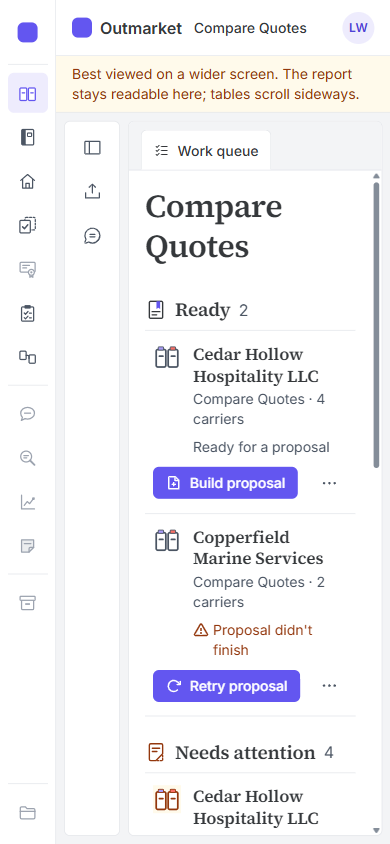
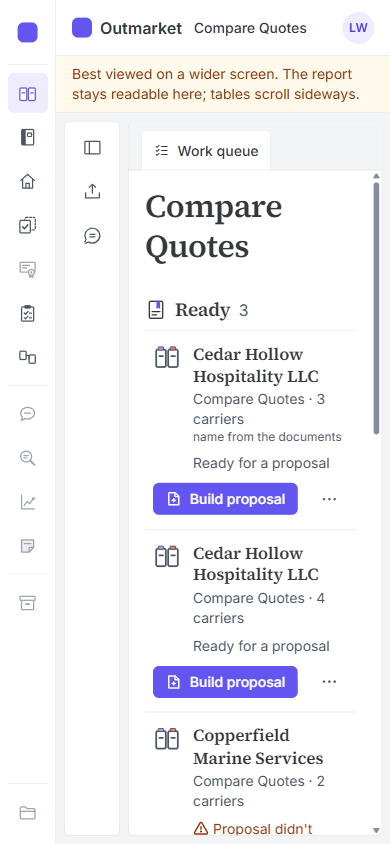
Rail glyphs Phase B: Silhouettes (A) is the rail; flag, B and C removed
Owner picked A. railMarks.tsx keeps only A's eight redrawn rail marks (the
other four reuse the shared Glyph); the ?rail= flag and B/C mark set are gone.
Rail only: Proposal row mark and left strip icons untouched (open questions).
DESIGN.md Voice records the rail rule; RAIL-BRIEF.md has the Phase B outcome;
final-a rail screenshots regenerated (active, hover, focus, disabled, 1024
overlay, 390).

diff --git a/frontend/src/voice/railMarks.tsx b/frontend/src/voice/railMarks.tsx
@@ -1,29 +1,18 @@
-// Rail glyph legibility, Phase A previews (frontend/RAIL-BRIEF.md). Dev server only: `?rail=a|b|c` before the hash
-// swaps the 13 rail glyphs for one direction; without the flag the rail renders the shipped `Glyph` set unchanged.
-// Same rules as marks.tsx: 24 grid, round joins, currentColor, paper fill, decorative (aria-hidden).
+// The rail's marks, "Silhouettes" (owner-picked direction A, frontend/RAIL-BRIEF.md; rules in DESIGN.md "Voice").
+// At 20px a 1.5px stroke is about one device pixel, so interior lines carry nothing: each rail item reads by its own
+// outline and mass. Same material as marks.tsx (24 grid, 1.5 strokes, round joins, paper fill, currentColor,
+// decorative). Items whose shipped outline was already unique use the shared `Glyph`; the rest are drawn here.
 import type { ReactNode } from "react";
 import { Glyph, type GlyphName } from "./marks";
-
-export type RailVariant = "a" | "b" | "c";
-
-/** The preview flag, read once per page load (hash routing keeps the query string). */
-export function railVariant(): RailVariant | null {
-  if (!import.meta.env.DEV || typeof window === "undefined") return null;
-  const v = new URLSearchParams(window.location.search).get("rail");
-  return v === "a" || v === "b" || v === "c" ? v : null;
-}
 
 const PAPER = "var(--color-surface)";
 const st = (w = 1.5) => ({ fill: "none", stroke: "currentColor", strokeWidth: w, strokeLinecap: "round", strokeLinejoin: "round" }) as const;
 
-function Sheet({ x, y, w, h, dashed, sw = 1.5 }: { x: number; y: number; w: number; h: number; dashed?: boolean; sw?: number }) {
-  return <rect x={x} y={y} width={w} height={h} rx="1.5" {...st(sw)} fill={PAPER} strokeDasharray={dashed ? "2.2 2" : undefined} />;
+function Sheet({ x, y, w, h }: { x: number; y: number; w: number; h: number }) {
+  return <rect x={x} y={y} width={w} height={h} rx="1.5" {...st()} fill={PAPER} />;
 }
 
-/* A, "Silhouettes": every item keeps the paper material but gets its own outline and mass, so it reads by shape
-   before detail. Kept from the shipped set where the outline was already unique (compare, house, policy check,
-   integrations, analytics); redrawn where the outline was a plain sheet. */
-function drawA(name: GlyphName): ReactNode {
+function draw(name: GlyphName): ReactNode {
   const S = st();
   switch (name) {
     case "proposal": // bound cover: heavy filled spine, a label window, no ruled lines
@@ -101,114 +90,16 @@ function drawA(name: GlyphName): ReactNode {
         </>
       );
     default:
-      return null; // compare, personal, policy-check, integrations: the shipped drawing (see RailGlyph)
+      return null; // compare, personal, policy-check, integrations: the shared drawing already has its own outline
   }
 }
 
-/* B and C share one mark per item, drawn on the 24 grid. B lays it on a faint shared sheet; C draws it alone. */
-function mark(name: GlyphName, w: number): ReactNode {
-  const S = st(w);
-  switch (name) {
-    case "compare": // two quotes, one line read across both
-      return (
-        <>
-          <rect x="3.5" y="4.5" width="7" height="15" rx="1.25" {...S} />
-          <rect x="13.5" y="4.5" width="7" height="15" rx="1.25" {...S} />
-          <path {...S} d="M2.5 12h19" />
-        </>
-      );
-    case "proposal":
-      return (
-        <>
-          <rect x="5" y="3" width="14" height="18" rx="1.5" {...S} />
-          <path d="M5 4.5A1.5 1.5 0 0 1 6.5 3h3v18h-3A1.5 1.5 0 0 1 5 19.5z" fill="currentColor" />
-        </>
-      );
-    case "personal":
-      return <path {...S} d="M3.5 11 12 3.75 20.5 11M6 9v11.25h12V9M10 20.25v-5.5h4v5.5" />;
-    case "policy-check": // the renewal ticked against the dashed expiring box
-      return (
-        <>
-          <rect x="3.5" y="6.5" width="12" height="13" rx="1.5" {...S} strokeDasharray="2.4 2.2" />
-          <path {...S} d="M7.5 12.5l3.25 3.25L20.5 5" />
-        </>
-      );
-    case "certificate": // the seal with its ribbons
-      return (
-        <>
-          <path {...S} d="M8.5 14.5v6.5l3.5-2 3.5 2v-6.5" />
-          <circle cx="12" cy="9.5" r="6" {...S} fill={PAPER} />
-          <circle cx="12" cy="9.5" r="2.25" fill="currentColor" />
-        </>
-      );
-    case "tasks": // a checklist, first row ticked
-      return (
-        <>
-          <rect x="3.5" y="4.5" width="5.5" height="5.5" rx="1" {...S} />
-          <rect x="3.5" y="14" width="5.5" height="5.5" rx="1" {...S} />
-          <path {...S} d="M4.75 7.25l1.25 1.25 2.25-2.5M12 7.25h8.5M12 16.75h8.5" />
-        </>
-      );
-    case "integrations": // two systems linked
-      return (
-        <>
-          <rect x="2.5" y="8.75" width="11" height="6.5" rx="3.25" {...S} />
-          <rect x="10.5" y="8.75" width="11" height="6.5" rx="3.25" {...S} />
-        </>
-      );
-    case "assistant":
-      return <path {...S} d="M3.5 4.5h17v11.5h-9l-5 4v-4h-3z" />;
-    case "search":
-      return (
-        <>
-          <circle cx="10" cy="10" r="6.5" {...S} />
-          <path {...S} d="m15 15 5.5 5.5" />
-        </>
-      );
-    case "analytics": // figures as bars
-      return <path {...S} d="M5.75 20v-7M12 20V7.5M18.25 20V4" />;
-    case "insights": // a sticky note, one corner folded (three plain lines read as a menu button)
-      return (
-        <>
-          <path {...S} fill="currentColor" fillOpacity="0.2" d="M3.75 3.75h16.5v10.5l-6 6H3.75z" />
-          <path {...S} d="M20.25 14.25h-4.5a1.5 1.5 0 0 0-1.5 1.5v4.5" />
-        </>
-      );
-    case "vault": // locked
-      return (
-        <>
-          <path {...S} d="M8 10.5V7.5a4 4 0 0 1 8 0v3" />
-          <rect x="5" y="10.5" width="14" height="10" rx="1.5" {...S} />
-          <path {...S} d="M12 14.5v2.5" />
-        </>
-      );
-    case "documents": // clipped together
-      return <path {...S} transform="rotate(40 12 12)" d="M16 6.5v9.5a4 4 0 0 1-8 0V5.75a2.75 2.75 0 0 1 5.5 0v9.75a1.5 1.5 0 0 1-3 0V7.5" />;
-    default:
-      return null;
-  }
-}
-
-const B_SCALE = 0.68;
-
-function draw(name: GlyphName, variant: RailVariant): ReactNode {
-  if (variant === "a") return drawA(name);
-  if (variant === "c") return mark(name, 1.75);
-  // B: the shared sheet, quiet, with the item's mark at full weight in its middle.
-  return (
-    <>
-      <rect x="4.75" y="2.75" width="14.5" height="18.5" rx="1.5" fill={PAPER} stroke="currentColor" strokeWidth="1.25" strokeOpacity="0.4" />
-      <g transform={`translate(12 12.25) scale(${B_SCALE}) translate(-12 -12)`}>{mark(name, 1.75 / B_SCALE)}</g>
-    </>
-  );
-}
-
-/** A rail item's glyph: the shipped `Glyph` unless a preview direction is on. */
-export function RailGlyph({ name, variant }: { name: GlyphName; variant: RailVariant | null }) {
-  const body = variant ? draw(name, variant) : null;
+/** A rail item's mark (20px, monochrome; active and disabled colours come from `.rail__item`). */
+export function RailGlyph({ name }: { name: GlyphName }) {
+  const body = draw(name);
   if (!body) return <Glyph name={name} />;
   return (
-    <svg className={`vmark vmark--${name} vmark--rail-${variant}`} width={20} height={20} viewBox="0 0 24 24" aria-hidden focusable="false">
+    <svg className={`vmark vmark--${name} vmark--rail`} width={20} height={20} viewBox="0 0 24 24" aria-hidden focusable="false">
       {body}
     </svg>
   );

diff --git a/frontend/src/shell/Shell.tsx b/frontend/src/shell/Shell.tsx
@@ -1,5 +1,5 @@
 import type { GlyphName } from "../voice/marks";
-import { RailGlyph, railVariant } from "../voice/railMarks";
+import { RailGlyph } from "../voice/railMarks";
 import { APP_NAME } from "../config";
 import { Tip } from "../ui/Tip";
 
@@ -17,6 +17,7 @@ interface RailItem {
 // DG1: the full rail from the reference. Live: Workflows (slice 1), Proposals (slice 2, the wizard),
 // Policy check (slice 3, the new-check wizard), Integrations (slice 3b, a static mock), Personal lines (slice 3b T6,
 // runs tagged personal) and Tasks (slice 3b T7). `tip` is the tooltip and accessible name of a live item.
+// Marks: `voice/railMarks.tsx` (one outline per item, RAIL-BRIEF.md).
 const GROUPS: RailItem[][] = [
   [
     { label: "Workflows", glyph: "compare", href: "#/", section: "workflows" },
@@ -37,10 +38,8 @@ const GROUPS: RailItem[][] = [
 ];
 
 export function Rail({ section }: { section: Section }) {
-  // `?rail=a|b|c`: dev-only glyph previews (RAIL-BRIEF.md); null renders the shipped marks.
-  const variant = railVariant();
   return (
-    <nav className="rail" aria-label="Main" data-rail={variant ?? undefined}>
+    <nav className="rail" aria-label="Main">
       <a href="#/" className="rail__home" aria-label={`${APP_NAME} home`}>
         <span className="glyph" aria-hidden />
       </a>
@@ -56,7 +55,7 @@ export function Rail({ section }: { section: Section }) {
                     aria-current={item.section === section ? "page" : undefined}
                     aria-label={item.tip ? item.tip.replace(": ", ", ") : item.label}
                   >
-                    <RailGlyph name={item.glyph} variant={variant} />
+                    <RailGlyph name={item.glyph} />
                   </a>
                 </Tip>
               ) : (
@@ -68,7 +67,7 @@ export function Rail({ section }: { section: Section }) {
                     tabIndex={-1}
                     aria-label={`${item.label}, coming in a later slice`}
                   >
-                    <RailGlyph name={item.glyph} variant={variant} />
+                    <RailGlyph name={item.glyph} />
                   </span>
                 </Tip>
               )}
@@ -79,7 +78,7 @@ export function Rail({ section }: { section: Section }) {
       <div className="rail__bottom">
         <Tip text="Documents: coming in a later slice" side="right">
           <span className="rail__item is-disabled" role="button" aria-disabled="true" tabIndex={-1} aria-label="Documents, coming in a later slice">
-            <RailGlyph name="documents" variant={variant} />
+            <RailGlyph name="documents" />
           </span>
         </Tip>
       </div>

diff --git a/frontend/RAIL-BRIEF.md b/frontend/RAIL-BRIEF.md
@@ -5,13 +5,18 @@ size"). Goal: every rail item is identifiable at a glance at its real size (20px
 and in the 390 layout, inside the Paper trail voice and the reference product's rail structure. Phase A only: three directions
 behind a dev-only flag; the default rail is unchanged. The owner picks before anything becomes the default.
 
+> **Phase B (2026-11-03): the owner picked A, "Silhouettes".** It is now the rail's only set; the `?rail=` flag and
+> directions B and C were removed from the code. The Phase A sections below are kept as the record of the choice
+> (their B and C screenshots stay in `qa-screenshots/rail/`); "How to see a direction" no longer applies. Phase B
+> decisions, rounds and results are in "Phase B" at the end.
+
 Sources: `PRODUCT.md`, `DESIGN.md` (Voice, Motion, "Focus, disabled, rail"), `VOICE-BRIEF.md` (why C won, the
 sheet rules, Phase B), `src/voice/marks.tsx`, `src/shell/Shell.tsx`, `HANDOFF.md` 09:30 entry.
 
 Skills loaded before the first decision: gstack, ui-ux-pro-max, taste-core, taste-redesign, impeccable (context
 ran: PRODUCT.md and DESIGN.md found; scoped refinement, Operate mode), emil-design-eng, frontend-design.
 
-## How to see a direction
+## How to see a direction (Phase A only; removed in Phase B)
 
 Dev server only (`import.meta.env.DEV`): add `?rail=a`, `?rail=b` or `?rail=c` before the hash, for example
 `http://localhost:5210/?rail=a#/tasks`. Hash links keep the query string, so the choice holds while you click
@@ -153,7 +158,47 @@ icons (panel, upload, chat; visible beside the rail at 1024 and 390) join the vo
    overlay open beside the rail (shipped, A, B, C). Axe (wcag2a/aa, 21aa): 0 violations with each flag on `#/` and
    `#/tasks` at 1440 and 390 (12 checks). No open findings beyond the Phase B questions above.
 
-## Not verified
+## Not verified (Phase A)
 - The squint metric is a proxy (translation-sensitive cosine on a blurred raster); the owner's eye decides.
 - Windows ClearType and non-Chromium rendering of the 20px glyphs were not checked.
 - Dark theme is out of scope (PRODUCT.md).
+
+## Phase B: A as the rail (2026-11-03)
+
+Skills reloaded and applied per decision: gstack, ui-ux-pro-max, taste-core, taste-redesign, impeccable,
+emil-design-eng, frontend-design. The rule is recorded in `DESIGN.md` "Voice" (rail marks).
+
+### What changed
+- `src/voice/railMarks.tsx`: only A's drawings remain. `RailGlyph` draws the eight redrawn items and falls back to the
+  shared `Glyph` for the four whose shipped outline was already unique (Workflows, Personal lines, Policy check,
+  Integrations). The `?rail=` flag, `railVariant`, and B and C's mark set are gone.
+- `src/shell/Shell.tsx`: rail items name a glyph and render `RailGlyph`; no `data-rail`, no flag.
+- Scope held to the rail. Not changed (owner did not take these; still open): the Proposal workflow mark on queue rows,
+  wizard titles and start buttons (still the bound sheet with lines, so the rail's Proposals cover and the row mark
+  differ); the left panel strip's icons (panel, upload, chat).
+
+### Decisions and what each skill said
+
+| Decision | gstack | ui-ux-pro-max | taste-core | taste-redesign | impeccable | emil-design-eng | frontend-design |
+|---|---|---|---|---|---|---|---|
+| Remove the flag, B and C; A unscoped | Name the files and the impact | n/a | One icon family per project | Do not leave dead variants | Refinement now preserves A | n/a | n/a |
+| Keep A's Assistant and Insights as approved (tweaks measured, none kept) | n/a | Distinct at size, measured not guessed | Do not change what the owner approved without a reason | Small targeted changes only | Verify in bounded passes; stop polishing | Taste is checked at real size, not argued | Remove one accessory: a tweak that adds a new collision is worse |
+| Rail-only scope; Proposal row mark and left strip untouched | Plain words about what is open | Same mark for the same thing (flagged as open, not fixed) | Nothing changes silently | Keep changes reviewable | The owner decides scope | n/a | n/a |
+| States unchanged (active tint, disabled grey, hover, focus) | n/a | Active state and focus visible; 44px area | Shape lock | Honour accessibility wins | Operate: native expectations | Hover gated to fine pointers | Quality floor |
+
+### Phase B rounds (2 of 3 used, Playwright MCP)
+1. A as the default at 1440, 1024 and 390. Squint metric unchanged from Phase A (mean 0.781, 1 pair at 0.90 or
+   above: Assistant / Insights 0.920). Tried three tweaks for that pair, measured live: Insights' fold moved to the
+   top right (that pair drops, but Personal lines / Insights rises to 0.902); a flatter balloon (0.917, no real gain);
+   Insights without its line and a stronger tint (0.926, worse). None kept: the pair is two compact shapes to the
+   metric, and a round balloon against a folded square by eye.
+2. States, driven live in a clean context: active on all six live items at 1440, 1024 and 390 (`--color-primary` on
+   `--color-primary-tint` every time; `final-a-1440-active-states.png`), hover on Integrations with its tooltip while
+   Tasks is active, keyboard Tab to Proposals (2px primary focus ring, tooltip), disabled Vault on hover (grey
+   `#9CA3AF`, no tint, `not-allowed`, tooltip "Vault: coming in a later slice"), 1024 run page with the left panel
+   overlay open. Found and fixed in the capture only: the first 1440 state shots inherited the squint blur because
+   hash routes keep the document; retaken in a fresh context. No design findings.
+
+Final screenshots (regenerated): `final-a-{1440,1024,390}-rail@2x.png`, `final-a-1440-rail-squint.png`,
+`final-a-390-page.png`, `final-a-1024-run-overlay.png`, `final-a-1440-tasks-active-hover.png`,
+`final-a-1440-tasks-focus.png`, `final-a-1440-disabled-hover.png`, `final-a-1440-active-states.png`.

diff --git a/DESIGN.md b/DESIGN.md
@@ -207,8 +207,17 @@ the meaning. Each needs its own silhouette at 20 to 28px:
 - Queue states: In progress = sheet with the reading line; Needs review = sheet with the dashed citation box (the
   viewer's passage highlight); Ready = sheet with a ribbon bookmark; Needs attention = sheet with its corner missing;
   Done = sheet under a seal.
-- Rail: the same family (house for Personal lines, clipboard for Tasks, joined sheets for Integrations, drawer for
-  Vault, and so on). Monochrome there; active/disabled colours as before.
+- Rail ("Silhouettes", owner-picked 2026-11-03, see `frontend/RAIL-BRIEF.md`; drawings in
+  `frontend/src/voice/railMarks.tsx`): at 20px interior lines carry nothing, so **each rail item has its own outline
+  and mass**, never a plain sheet with lines. Same material (sheet fill, 1.5 stroke, round joins, monochrome).
+  Workflows = two sheets side by side; Proposals = bound cover with a solid spine and a label window; Personal lines =
+  house; Policy check = renewal over the dashed expiring sheet, ticked; Certificates = landscape certificate with a
+  rosette breaking its lower edge; Tasks = clipboard with a solid clip; Integrations = two small sheets joined;
+  Assistant = round balloon with one line; Market search = loupe with the lines inside the lens; Analytics = axes,
+  rising line, a dot on the latest figure; Insights = tinted sticky note with a folded corner; Vault = archive box with
+  an overhanging lid; Documents = file folder with its tab. A new rail item must not share an outline with an existing
+  one (check it blurred at 20px). Active/disabled colours, hover and focus as in "Focus, disabled, rail". The rail
+  marks are rail-only: the Proposal workflow mark on queue rows, wizard titles and start buttons stays the bound sheet.
 - Colour inside marks: `currentColor` for the drawing; document hues (`--doc-N-mark`) only as small sheet tabs;
   `--color-primary` only for the citation box, the reading line and the ribbon.
 
